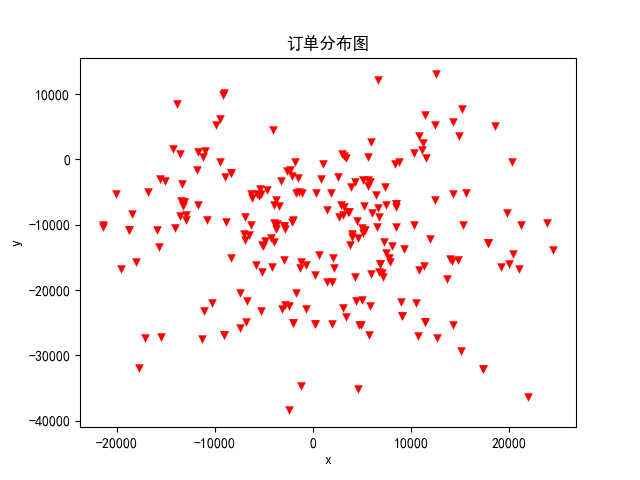
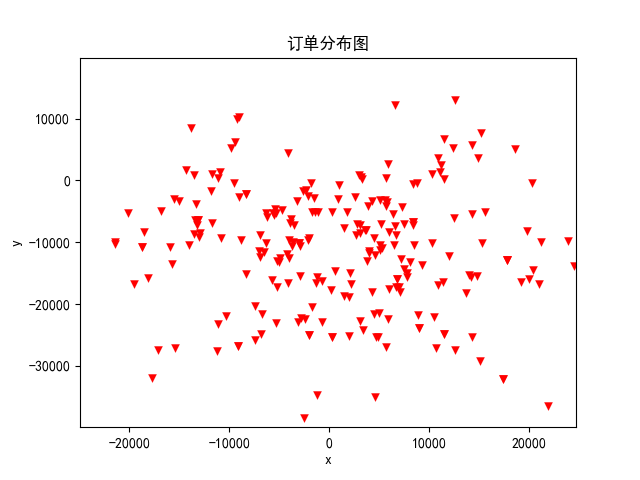
2

diff --git a/python-code/task1/plot_scatter.py b/python-code/task1/plot_scatter.py
@@ -29,11 +29,21 @@ order['serviceLastTime'] = (order['serviceLastTime'] - order['serviceFirstTime']
 order['serviceFirstTime'] = (order['serviceFirstTime'] - min(order['serviceFirstTime'])) / 3600
 
 marker = ['o', 'v', '^', '<', '>', '8', 's', 'p', '*', 'h', 'H', 'D', 'd', 'P', 'X']
+order_num = []
+
 for i in range(13):
+    order_num.append(order[order['serviceFirstTime'] == i].shape[0])
     plt.scatter(order[order['serviceFirstTime'] == i].iloc[:, 5], order[order['serviceFirstTime'] == i].iloc[:, 6],
                 c='red', marker=marker[i], linewidths=0.1, label=f'订单Starttime={i}')
     plt.title('订单分布图')
     plt.xlabel('x')
     plt.ylabel('y')
+    plt.xlim(np.min(order['x']), np.max(order['x']))
+    plt.ylim(np.min(order['y']), np.max(order['y']))
     plt.savefig(f'../../pic/order_starttime分布图{i}.png')
     plt.show()
+
+plt.plot(range(13), order_num)
+plt.title('order_starttime数量折线图')
+plt.savefig(f'../../pic/order_starttime数量折线图.png')
+plt.show()
